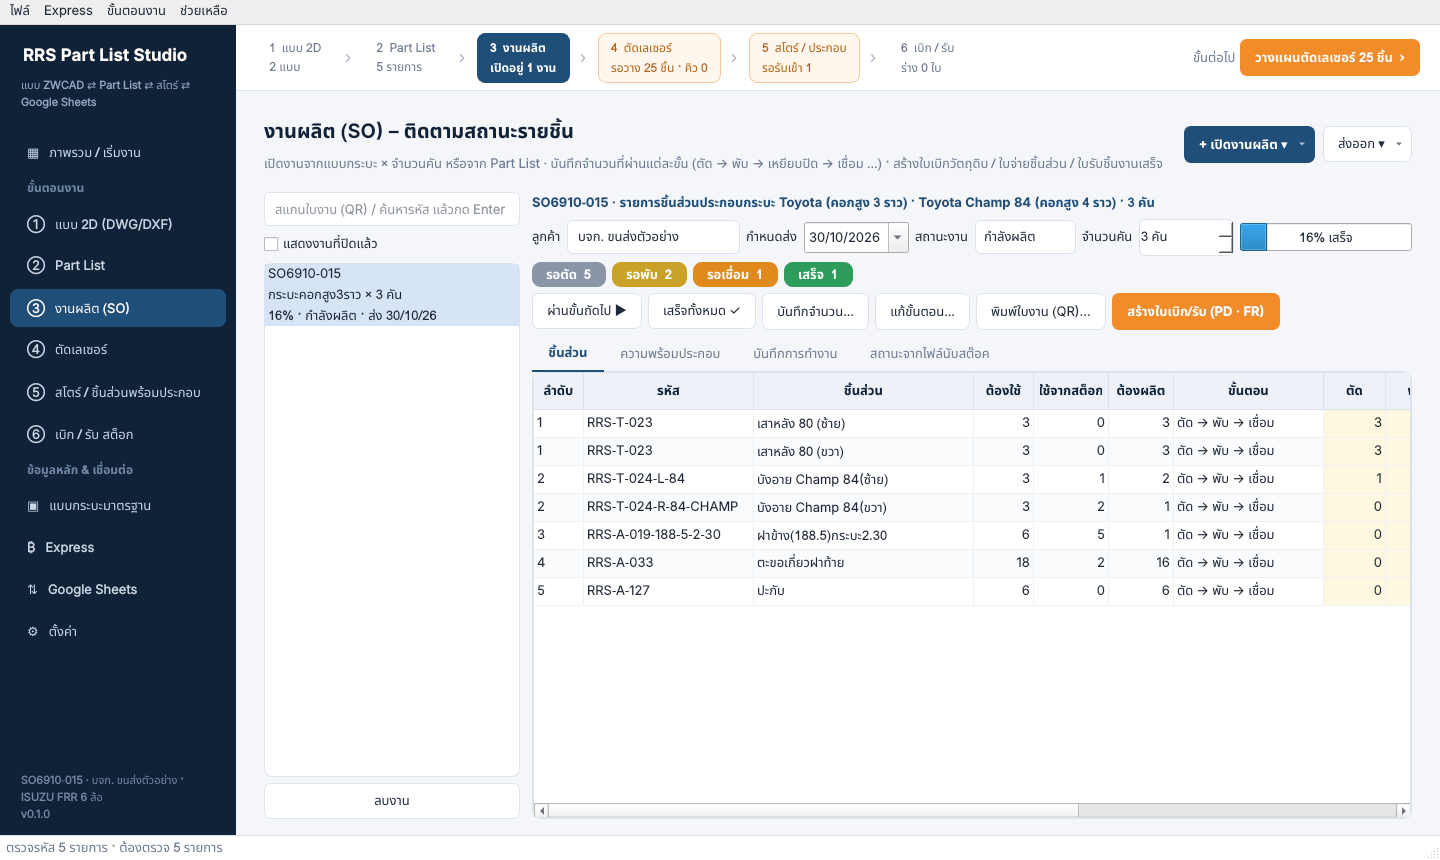
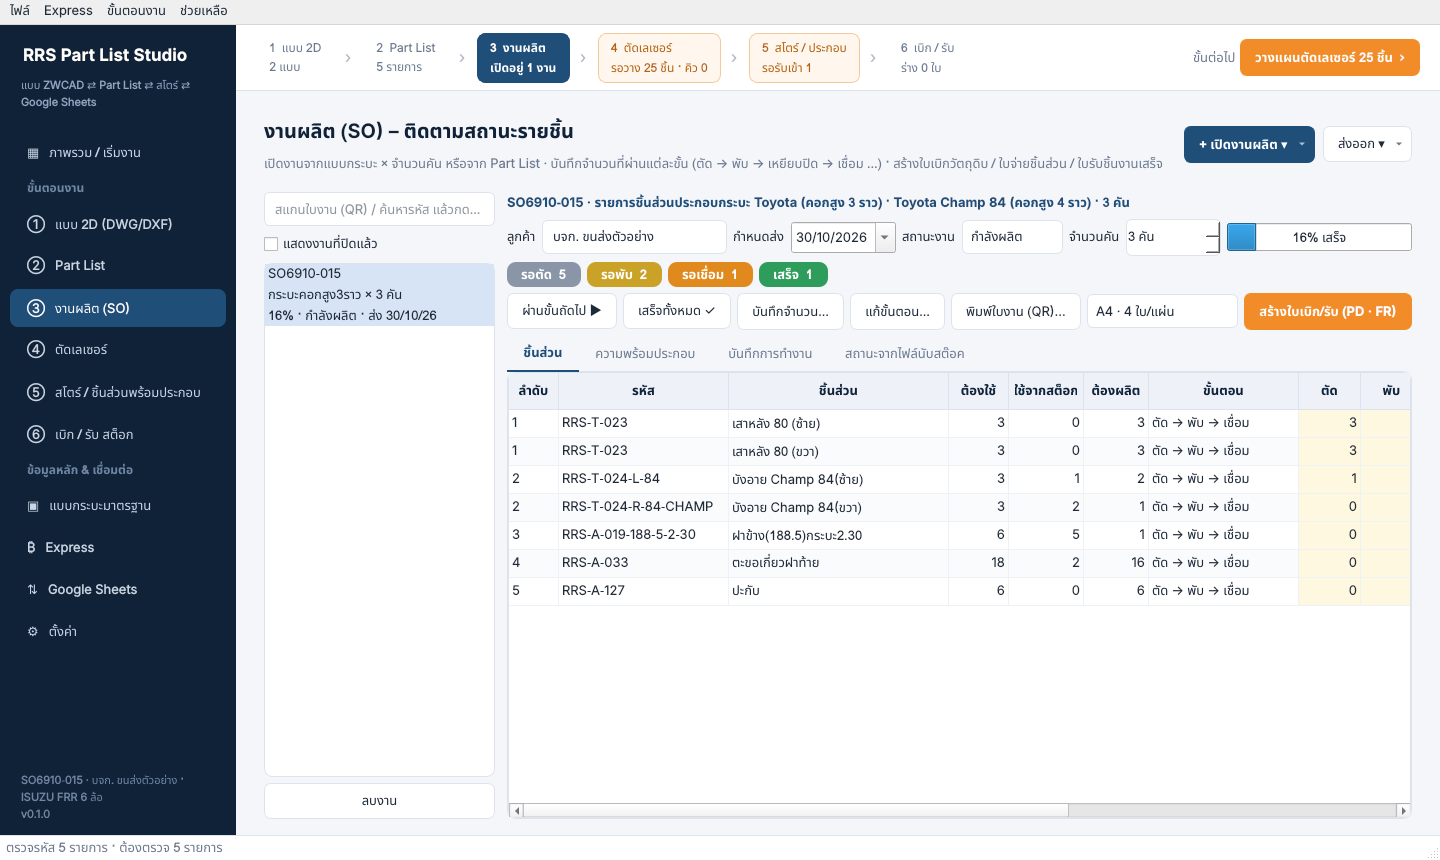
Job tickets: print several per A4 sheet
Next to "พิมพ์ใบงาน (QR)…" a choice of tickets per sheet (remembered):
A6 · 1 per sheet (A6 paper / sticker, as before), or on A4: 2 (full A6 size),
4 (A4 landscape, 95 % of A6 - the default) and 8 (68 %, small). The tickets
sit in a grid inside the 5 mm the printers leave white, with dashed lines to
cut along; each is the same A6 ticket scaled, QR included.

printing: TICKET_LAYOUTS, ticket_cells, write_tickets_pdf(per_page),
tickets_page_image (preview). Tests for every layout (cells inside the
printable area, number of sheets) and the page; docs; screenshots.

Claude-Session: https://claude.ai/code/session_01H8D3iupff3KHzmxmh7VxhV

diff --git a/src/partlist_studio/ui/printing.py b/src/partlist_studio/ui/printing.py
@@ -1,4 +1,5 @@
-"""PDF of the job tickets (ใบงาน A6 แนวนอน) and the shelf labels (ป้ายชั้นวาง A4 3 × 8 ดวง 70 × 37 มม.).
+"""PDF of the job tickets (ใบงาน A6 แนวนอน: 1 per A6, or 2 / 4 / 8 per A4 with cut lines) and the shelf
+labels (ป้ายชั้นวาง A4 3 × 8 ดวง 70 × 37 มม.).
 
 Drawn with Qt so the Thai text uses the program's font and the QR is sharp vector squares.
 """
@@ -262,21 +263,99 @@ def _paint_ticket(p: QPainter, mm: _Mm, t: Ticket, printed: str) -> None:
     _text(p, mm(76, 92, 68, 7), f"พิมพ์ {printed}", 7, color=MUTED, flags=Qt.AlignRight | Qt.AlignVCenter)
 
 
-def write_tickets_pdf(path: str | Path, tickets: list[Ticket]) -> int:
-    """ใบงาน: one A6 landscape page per ticket (print on A6 paper/sticker, or 4 per A4 with the printer's
-    'pages per sheet')."""
-    writer = _writer(path, QPageSize.A6, True)
+TICKET_W, TICKET_H = 148.0, 105.0  # A6 landscape
+PRINT_MARGIN = 5.0  # mm the printers leave white at the edge of an A4 sheet
+# per sheet -> (paper, landscape, columns, rows)
+TICKET_LAYOUTS = {1: (QPageSize.A6, True, 1, 1), 2: (QPageSize.A4, False, 1, 2), 4: (QPageSize.A4, True, 2, 2),
+                  8: (QPageSize.A4, False, 2, 4)}
+TICKET_LAYOUT_TEXT = {1: "A6 · 1 ใบ/แผ่น", 2: "A4 · 2 ใบ/แผ่น", 4: "A4 · 4 ใบ/แผ่น", 8: "A4 · 8 ใบ/แผ่น (เล็ก)"}
+
+
+def ticket_cells(per_page: int) -> tuple[float, list[tuple[float, float]]]:
+    """(scale, [(x, y) mm of each ticket on the sheet]): A6 tickets in a grid inside the printable area of
+    the paper, as large as they fit (4 per A4 = 95 %, 8 per A4 = 68 %)."""
+    _size, landscape, cols, rows = TICKET_LAYOUTS[per_page]
+    if per_page == 1:
+        return 1.0, [(0.0, 0.0)]
+    page_w, page_h = (297.0, 210.0) if landscape else (210.0, 297.0)
+    cell_w, cell_h = (page_w - 2 * PRINT_MARGIN) / cols, (page_h - 2 * PRINT_MARGIN) / rows
+    scale = min(1.0, cell_w / TICKET_W, cell_h / TICKET_H)
+    w, h = TICKET_W * scale, TICKET_H * scale
+    x0, y0 = (page_w - cols * w) / 2, (page_h - rows * h) / 2  # the grid in the middle of the sheet
+    return scale, [(x0 + c * w, y0 + r * h) for r in range(rows) for c in range(cols)]
+
+
+def _cut_lines(p: QPainter, mm: _Mm, per_page: int, scale: float, cells: list[tuple[float, float]]) -> None:
+    """Dashed lines between the tickets of a sheet: cut along them."""
+    _size, _landscape, cols, rows = TICKET_LAYOUTS[per_page]
+    w, h = TICKET_W * scale, TICKET_H * scale
+    x0, y0 = cells[0]
+    pen = QPen(LINE, mm.v(0.2))
+    pen.setStyle(Qt.DashLine)
+    p.save()
+    p.setPen(pen)
+    for c in range(cols + 1):
+        p.drawLine(QPointF(mm.v(x0 + c * w), mm.v(y0)), QPointF(mm.v(x0 + c * w), mm.v(y0 + rows * h)))
+    for r in range(rows + 1):
+        p.drawLine(QPointF(mm.v(x0), mm.v(y0 + r * h)), QPointF(mm.v(x0 + cols * w), mm.v(y0 + r * h)))
+    p.restore()
+
+
+def write_tickets_pdf(path: str | Path, tickets: list[Ticket], per_page: int = 1) -> int:
+    """ใบงาน: per_page = 1 (A6 landscape paper or sticker), 2 / 4 / 8 on A4 with dashed cut lines.
+    Returns the number of tickets."""
+    if per_page not in TICKET_LAYOUTS:
+        per_page = 1
+    size, landscape, _cols, _rows = TICKET_LAYOUTS[per_page]
+    writer = _writer(path, size, landscape)
     mm = _Mm(writer.resolution())
+    scale, cells = ticket_cells(per_page)
     printed = _now_text()
     p = QPainter(writer)
     try:
         for i, t in enumerate(tickets):
-            if i:
+            n = i % len(cells)
+            if i and n == 0:
                 writer.newPage()
+            if n == 0 and per_page > 1:
+                _cut_lines(p, mm, per_page, scale, cells)
+            p.save()
+            p.translate(mm.v(cells[n][0]), mm.v(cells[n][1]))
+            p.scale(scale, scale)
             _paint_ticket(p, mm, t, printed)
+            p.restore()
     finally:
         p.end()
     return len(tickets)
+
+
+def tickets_page_image(tickets: list[Ticket], per_page: int, dpi: int = 60) -> QImage:
+    """First sheet of the tickets as a picture (preview, documentation)."""
+    _size, landscape, _cols, _rows = TICKET_LAYOUTS[per_page]
+    w, h = (297.0, 210.0) if landscape else (210.0, 297.0)
+    if per_page == 1:
+        w, h = TICKET_W, TICKET_H
+    k = dpi / 25.4
+    image = QImage(round(w * k), round(h * k), QImage.Format_RGB32)
+    image.setDotsPerMeterX(round(dpi / 0.0254))
+    image.setDotsPerMeterY(round(dpi / 0.0254))
+    image.fill(Qt.white)
+    mm = _Mm(dpi)
+    scale, cells = ticket_cells(per_page)
+    p = QPainter(image)
+    p.setRenderHint(QPainter.TextAntialiasing, True)
+    try:
+        if per_page > 1:
+            _cut_lines(p, mm, per_page, scale, cells)
+        for t, (x, y) in zip(tickets, cells):
+            p.save()
+            p.translate(mm.v(x), mm.v(y))
+            p.scale(scale, scale)
+            _paint_ticket(p, mm, t, _now_text())
+            p.restore()
+    finally:
+        p.end()
+    return image
 
 
 def ticket_image(t: Ticket, dpi: int = 150) -> QImage:

diff --git a/src/partlist_studio/ui/pages/production.py b/src/partlist_studio/ui/pages/production.py
@@ -113,13 +113,16 @@ class ProductionPage(QWidget):
                 ("บันทึกจำนวน…", self.record_qty, "บันทึกจำนวนชิ้นที่ผ่านขั้นหนึ่ง", ""),
                 ("แก้ขั้นตอน…", self.edit_route, "ขั้นตอนการผลิตของแถวที่เลือก", ""),
                 ("พิมพ์ใบงาน (QR)…", self.print_tickets,
-                 "ใบงาน A6 ต่อชิ้นส่วน: QR รูปชิ้นงาน ขั้นตอน และที่เก็บ (แถวที่เลือก หรือทุกชิ้นที่ต้องผลิต)", ""),
+                 ("ใบงานต่อชิ้นส่วน: QR รูป 2D จากแบบ รหัส ขนาด ขั้นตอน และที่เก็บ (แถวที่เลือก หรือทุกชิ้นที่ต้องผลิต) · "
+                  "เลือกจำนวนใบต่อแผ่นที่ช่องข้าง ๆ"), ""),
                 ("สร้างใบเบิก/รับ (PD · FR)", self.make_documents,
                  "ร่าง PD วัตถุดิบ + PD จ่ายชิ้นส่วนประกอบ + FR รับชิ้นงานเสร็จ → ตรวจและบันทึกในหน้า เบิก/รับ สต็อก",
                  "accent")):
             b = button(text, kind, tip) if kind else button(text, tooltip=tip)
             b.clicked.connect(slot)
             tools.addWidget(b)
+            if slot == self.print_tickets:
+                tools.addWidget(self._ticket_layout_box())
         tools.addStretch(1)
         rl.addLayout(tools)
 
@@ -449,6 +452,22 @@ class ProductionPage(QWidget):
             self.state.notify(f"บันทึก {Path(path).name} แล้ว")
 
     # ---- tickets, picking list, scan ---------------------------------------
+    def _ticket_layout_box(self) -> QComboBox:
+        """How many tickets per sheet: A6 paper/sticker, or 2 / 4 / 8 on A4 (remembered)."""
+        from ..printing import TICKET_LAYOUT_TEXT
+
+        self.ticket_layout = QComboBox()
+        for per_page, text in TICKET_LAYOUT_TEXT.items():
+            self.ticket_layout.addItem(text, per_page)
+        self.ticket_layout.setToolTip("จำนวนใบงานต่อแผ่น: A6 = กระดาษ/สติกเกอร์ A6 · A4 = หลายใบต่อแผ่น มีเส้นประให้ตัด "
+                                      "(4 ใบ = ขนาดเกือบเต็ม A6 · 8 ใบ = ใบเล็กลง)")
+        saved = self.state.settings.get("tickets/per_page", "4")
+        index = self.ticket_layout.findData(int(saved) if saved.isdigit() else 4)
+        self.ticket_layout.setCurrentIndex(max(0, index))
+        self.ticket_layout.currentIndexChanged.connect(
+            lambda _i: self.state.settings.set("tickets/per_page", str(self.ticket_layout.currentData())))
+        return self.ticket_layout
+
     def print_tickets(self) -> None:
         job = self._job()
         if job is None:
@@ -462,10 +481,13 @@ class ProductionPage(QWidget):
         path = self.actions.save_path("ใบงาน (PDF)", f"ใบงาน_{job.job_no}.pdf", "PDF (*.pdf)")
         if not path:
             return
-        from ..printing import open_document, write_tickets_pdf
+        from ..printing import TICKET_LAYOUT_TEXT, open_document, write_tickets_pdf
 
-        n = write_tickets_pdf(path, tickets)
-        self.state.notify(f"บันทึก {Path(path).name} แล้ว ({n} ใบ · A6 แนวนอน · สแกน QR ที่ช่อง สแกนใบงาน)")
+        per_page = self.ticket_layout.currentData() or 1
+        n = write_tickets_pdf(path, tickets, per_page)
+        sheets = -(-n // per_page)
+        self.state.notify(f"บันทึก {Path(path).name} แล้ว ({n} ใบ · {TICKET_LAYOUT_TEXT[per_page]} = {sheets} แผ่น"
+                          + (" · ตัดตามเส้นประ" if per_page > 1 else "") + " · สแกน QR ที่ช่อง สแกนใบงาน)")
         open_document(path)
 
     def export_kitting(self) -> None:

diff --git a/tests/test_ui.py b/tests/test_ui.py
@@ -550,6 +550,11 @@ def test_parts_ready_tab_readiness_tickets_and_scan(window, app, monkeypatch, tm
     prod.parts.clearSelection()
     prod.print_tickets()  # nothing selected: every part the job makes
     assert (tmp_path / "ใบงาน_SO-R1.pdf").read_bytes()[:4] == b"%PDF"
+    assert prod.ticket_layout.currentData() == 4  # 4 tickets per A4 unless another layout was chosen
+    prod.ticket_layout.setCurrentIndex(prod.ticket_layout.findData(8))
+    assert state.settings.get("tickets/per_page") == "8"
+    prod.print_tickets()
+    assert (tmp_path / "ใบงาน_SO-R1.pdf").read_bytes()[:4] == b"%PDF"
     prod.export_kitting()
     assert (tmp_path / "ใบจัดชุด_SO-R1.xlsx").is_file()
     prod.scan.setText(qr.ticket_payload("SO-R1", 1, "RRS-T-024-L-84", 4))
@@ -707,3 +712,32 @@ def test_build_quantity_stepper_shows_and_steps(window, app):
     assert not stepper.minus.isEnabled()  # never below 1 car
     QTest.keyClick(stepper.edit, Qt.Key_Tab)
     assert stepper.edit.text() == "1"
+
+
+def test_tickets_several_per_a4(app, tmp_path):
+    import re
+
+    from partlist_studio.core import catalog, dwg_io, laser, production
+    from partlist_studio.ui import printing
+
+    data = dwg_io.read_drawing(SAMPLES / "RRS-T-SET_frame_parts.dxf")
+    parts = [c.part for c in dwg_io.drawing_to_candidates(data)]
+    lib = laser.FlatLibrary()
+    lib.add_parts(parts)
+    job = production.job_from_parts("SO-A4", parts, 1, None, False)
+    tickets = catalog.job_tickets(job, None, catalog.Catalog(), None, lib) * 2  # 10 tickets
+    for per_page, sheets in ((1, 10), (2, 5), (4, 3), (8, 2)):
+        scale, cells = printing.ticket_cells(per_page)
+        _size, landscape, cols, rows = printing.TICKET_LAYOUTS[per_page]
+        page_w, page_h = (297, 210) if landscape else (210, 297)
+        assert len(cells) == per_page == cols * rows
+        if per_page > 1:  # inside the printable area of the A4 sheet
+            assert all(x >= printing.PRINT_MARGIN - 1e-6 and y >= printing.PRINT_MARGIN - 1e-6 for x, y in cells)
+            assert all(x + printing.TICKET_W * scale <= page_w - printing.PRINT_MARGIN + 1e-6 and
+                       y + printing.TICKET_H * scale <= page_h - printing.PRINT_MARGIN + 1e-6 for x, y in cells)
+        path = tmp_path / f"t{per_page}.pdf"
+        assert printing.write_tickets_pdf(path, tickets, per_page) == 10
+        assert len(re.findall(rb"/Type\s*/Page[^s]", path.read_bytes())) == sheets
+    assert printing.ticket_cells(4)[0] == pytest.approx(200 / 210)  # 4 per A4: 95 % of A6
+    image = printing.tickets_page_image(tickets, 4, 40)
+    assert image.width() > image.height()  # A4 landscape

diff --git a/tools/screenshots.py b/tools/screenshots.py
@@ -256,6 +256,10 @@ def main() -> int:
     ticket = catalog_mod.job_tickets(laser_job, [0], state.catalog, state.stock, state.flats,
                                      state.cut_queue.programs)[0]
     ticket_image(ticket, 160).save(str(out / "12c_job_ticket.png"))
+    from partlist_studio.ui.printing import tickets_page_image
+
+    sheet = catalog_mod.job_tickets(laser_job, None, state.catalog, state.stock, state.flats, state.cut_queue.programs)
+    tickets_page_image(sheet, 4, 90).save(str(out / "12d_job_tickets_a4.png"))
     prod.tabs.setCurrentIndex(0)
     w.go("express")
     w.pages["express"].audit_codes()

diff --git a/docs/STOCK_PRODUCTION_DESIGN.md b/docs/STOCK_PRODUCTION_DESIGN.md
@@ -377,7 +377,7 @@ SO6910-015  คอกสูง 3 ราว · Toyota Champ · 3 คัน · ส
 | ป้าย QR ชั้นวาง | ปุ่ม **พิมพ์ป้ายชั้นวาง (QR)…** | PDF A4 3 × 8 ดวง (70 × 37 มม.) ใช้กระดาษสติกเกอร์ หรือกระดาษธรรมดาตัดตามเส้นประ |
 | ความพร้อมประกอบต่องาน | งานผลิต (SO) → แท็บ **ความพร้อมประกอบ** | % ต่อกลุ่ม · ขาดชิ้นไหน กี่ชิ้น อยู่ขั้นไหน · คลิกกลุ่มเพื่อดูรายชิ้นพร้อมตำแหน่งเก็บ |
 | ใบจัดชุด | ปุ่ม **ใบจัดชุด (Excel)…** ในแท็บความพร้อมประกอบ | ใบหยิบของงานนั้น แยกกลุ่ม มีตำแหน่งเก็บและช่องติ๊ก *หยิบแล้ว* |
-| ใบงานพร้อม QR | ปุ่ม **พิมพ์ใบงาน (QR)…** | PDF A6 แนวนอน 1 ใบต่อชิ้นส่วน (เลือกแถว หรือไม่เลือก = ทุกชิ้นที่ต้องผลิต): **รหัส Part ตามแบบ DWG · รหัส Part Express** (ชิ้นที่ยังไม่ผูกรหัสสโตร์ใช้ผลจับคู่รหัสอัตโนมัติ เช่น RRS-T-039 → RRS-A-039-NO1-PR ถ้ายังไม่แน่ใจขึ้น *(ควรตรวจ)*) · **รูป 2D จากไฟล์แบบ DWG** พร้อมเส้นพับและขนาดกว้าง × ยาว (ไม่มีแบบใช้รูปชิ้นงาน) · **ยี่ห้อ / รุ่นรถ** (ยี่ห้อจากหน้าภาพรวมหรือหลักที่ 2 ของรหัส) · **รุ่นกระบะที่ผลิต** (แบบงาน เช่น กระบะดั้มพ์คอกสูง 3 ราว) · **ขนาดของ Part** (กว้าง × ยาว มม. · หนา) · วัสดุ เลขโปรแกรมเลเซอร์ จำนวน ช่องติ๊กทุกขั้น ที่เก็บเมื่อเสร็จ และกำหนดส่ง · QR มีรายละเอียด Part List ต่อท้าย `RRS1|J|งาน|แถว|รหัส|จำนวน|รหัส DWG|รหัส Express|วัสดุ|ขนาด|ชื่อ` (สแกนด้วยมือถือเห็นรายละเอียด · โปรแกรมอ่าน 6 ช่องแรกเหมือนเดิม) |
+| ใบงานพร้อม QR | ปุ่ม **พิมพ์ใบงาน (QR)…** + ช่องเลือก **ใบต่อแผ่น** | PDF 1 ใบต่อชิ้นส่วน (เลือกแถว หรือไม่เลือก = ทุกชิ้นที่ต้องผลิต) พิมพ์ได้ **A6 · 1 ใบ/แผ่น** (กระดาษ/สติกเกอร์ A6) หรือหลายใบต่อ A4: **2 ใบ** (เต็มขนาด A6) · **4 ใบ** (A4 แนวนอน 95 % ของ A6 – ค่าเริ่มต้น) · **8 ใบ** (ใบเล็ก 68 %) มีเส้นประให้ตัด และเว้นขอบ 5 มม. ที่เครื่องพิมพ์พิมพ์ไม่ถึง (ระบบจำค่าที่เลือกไว้): **รหัส Part ตามแบบ DWG · รหัส Part Express** (ชิ้นที่ยังไม่ผูกรหัสสโตร์ใช้ผลจับคู่รหัสอัตโนมัติ เช่น RRS-T-039 → RRS-A-039-NO1-PR ถ้ายังไม่แน่ใจขึ้น *(ควรตรวจ)*) · **รูป 2D จากไฟล์แบบ DWG** พร้อมเส้นพับและขนาดกว้าง × ยาว (ไม่มีแบบใช้รูปชิ้นงาน) · **ยี่ห้อ / รุ่นรถ** (ยี่ห้อจากหน้าภาพรวมหรือหลักที่ 2 ของรหัส) · **รุ่นกระบะที่ผลิต** (แบบงาน เช่น กระบะดั้มพ์คอกสูง 3 ราว) · **ขนาดของ Part** (กว้าง × ยาว มม. · หนา) · วัสดุ เลขโปรแกรมเลเซอร์ จำนวน ช่องติ๊กทุกขั้น ที่เก็บเมื่อเสร็จ และกำหนดส่ง · QR มีรายละเอียด Part List ต่อท้าย `RRS1|J|งาน|แถว|รหัส|จำนวน|รหัส DWG|รหัส Express|วัสดุ|ขนาด|ชื่อ` (สแกนด้วยมือถือเห็นรายละเอียด · โปรแกรมอ่าน 6 ช่องแรกเหมือนเดิม) |
 | สแกนใบงาน | ช่อง **สแกนใบงาน (QR) / ค้นหารหัส** ในหน้างานผลิต | เครื่องสแกน QR แบบ USB (ทำงานเหมือนคีย์บอร์ด) สแกนแล้วโปรแกรมเปิดงานและเลือกแถวชิ้นนั้นให้ กด *ผ่านขั้นถัดไป* หรือ *บันทึกจำนวน* ต่อได้ทันที |
 
 ข้อความใน QR สั้นและอ่านได้ทั้งเครื่องสแกนและมือถือ:

diff --git a/docs/UI_DESIGN.md b/docs/UI_DESIGN.md
@@ -57,7 +57,7 @@
 | หน้าต่างจับคู่คอลัมน์ | ยืนยันว่าคอลัมน์ในไฟล์ ZWCAD/Excel/Google ตรงกับช่องใด | ![](screenshots/8_column_mapping.png) |
 | เลือกรุ่นย่อย | รุ่นรถ / ความสูงคอก / ความยาว → รหัส Express ทุกแถว เลือกรหัสอื่นต่อแถวได้ | ![](screenshots/11_variant_dialog.png) |
 | งานผลิต (SO) | งาน × จำนวนคัน, จำนวนที่ผ่านแต่ละขั้น (แก้ในช่องสีเหลือง), สถานะ รอตัด/รอพับ/รอเชื่อม/เสร็จ, สร้างใบเบิก/รับ, ช่องสแกนใบงาน (QR) | ![](screenshots/12_production.png) |
-| งานผลิต – ความพร้อมประกอบ / ใบงาน QR | % พร้อมต่อกลุ่มประกอบ (แถบเขียว = ครบ ปล่อยประกอบได้, ส้ม = ยังขาด) · ขาดชิ้นไหน อยู่ขั้นไหน · ใบจัดชุด Excel · ใบงาน A6 พร้อม QR (รายละเอียด Part List + วัสดุ): รหัสตามแบบ DWG / รหัส Express, รูป 2D จากแบบพร้อมขนาด, ยี่ห้อ/รุ่นรถ, รุ่นกระบะ, ขนาด, ขั้นตอน และที่เก็บ | ![](screenshots/12b_readiness.png) ![](screenshots/12c_job_ticket.png) |
+| งานผลิต – ความพร้อมประกอบ / ใบงาน QR | % พร้อมต่อกลุ่มประกอบ (แถบเขียว = ครบ ปล่อยประกอบได้, ส้ม = ยังขาด) · ขาดชิ้นไหน อยู่ขั้นไหน · ใบจัดชุด Excel · ใบงาน A6 พร้อม QR (รายละเอียด Part List + วัสดุ): รหัสตามแบบ DWG / รหัส Express, รูป 2D จากแบบพร้อมขนาด, ยี่ห้อ/รุ่นรถ, รุ่นกระบะ, ขนาด, ขั้นตอน และที่เก็บ – พิมพ์ A6 1 ใบ/แผ่น หรือ 2 / 4 / 8 ใบต่อ A4 พร้อมเส้นตัด | ![](screenshots/12b_readiness.png) ![](screenshots/12c_job_ticket.png) ![](screenshots/12d_job_tickets_a4.png) |
 | เบิก / รับ สต็อก | เอกสาร PD OU FR RR AJ, บันทึกแล้วยอดเปลี่ยน, ประวัติการเคลื่อนไหว, วัตถุดิบต่อชิ้น | ![](screenshots/13_movements.png) |
 | ตัดเหล็ก / เลเซอร์ – วางแผนตัด | จาก Part List × คัน หรือจากงานผลิตที่เปิดอยู่ (ติ๊กงาน): แผ่นที่ใช้ต่อวัสดุ/ความหนา, % ใช้เหล็ก, ภาพการวางชิ้นงาน | ![](screenshots/14_nesting.png) ![](screenshots/14b_laser_plan_jobs.png) |
 | ตัดเหล็ก / เลเซอร์ – ตรวจก่อนตัด | รูเล็ก, รูชิดขอบ, ชิ้นเล็ก, เส้นซ้อน, ไม่มีความหนา, ใหญ่กว่าแผ่น (แดง = ต้องแก้, ส้ม = เตือน) | ![](screenshots/14c_laser_checks.png) |
